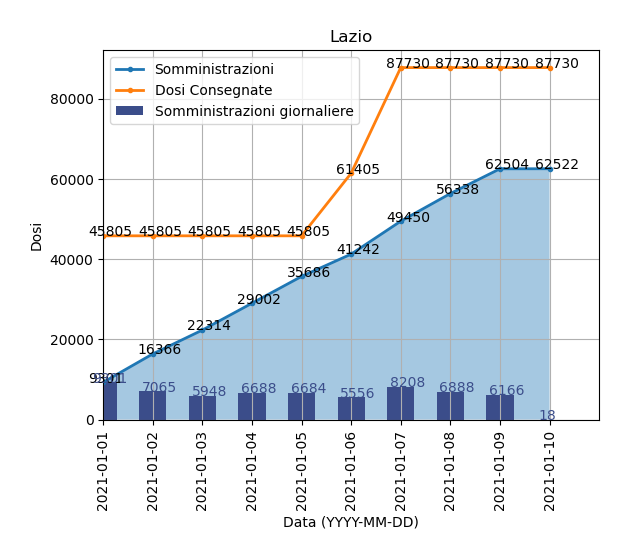
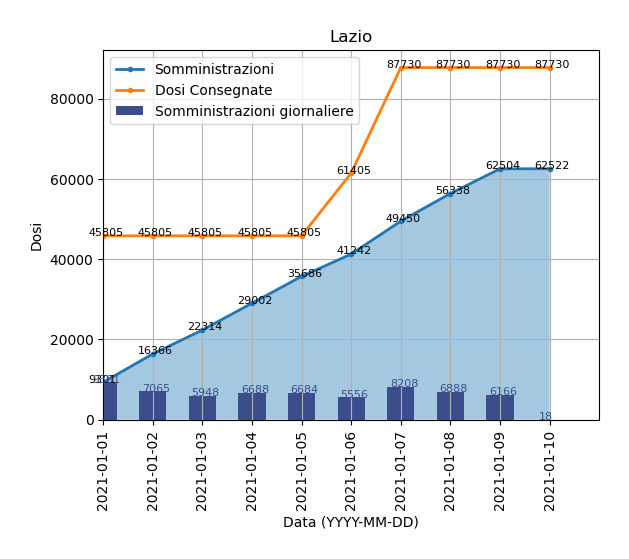
fix plot fontsize

diff --git a/plot_regions.py b/plot_regions.py
@@ -5,7 +5,7 @@ import os
 import numpy as np
 
 COL = ['Somministrazioni', 'Dosi Consegnate', 'Data']
-
+F = 8
 
 def plotRegions(path, dest_path):
     all_files = glob.glob(path + "/*.csv")
@@ -36,13 +36,13 @@ def plotRegions(path, dest_path):
         plt.xlim(0,len(df['Data']))
 
         for i, txt in enumerate(df['Somministrazioni']):
-            plt.text(i - 0.3, txt, txt)
+            plt.text(i - 0.3, txt, txt, fontsize=F)
 
         for i, txt in enumerate(df['Dosi Consegnate']):
-            plt.text(i - 0.3, txt, txt)
+            plt.text(i - 0.3, txt, txt, fontsize=F)
 
         for i, txt in enumerate(daily):
-            plt.text(i - 0.22, txt, txt,color='#3b4d8a')
+            plt.text(i - 0.22, txt, txt,color='#3b4d8a', fontsize=F)
 
         plt.fill_between(np.arange(len(df['Data'])), df['Somministrazioni'], alpha=0.4,label='_nolegend_')
 
